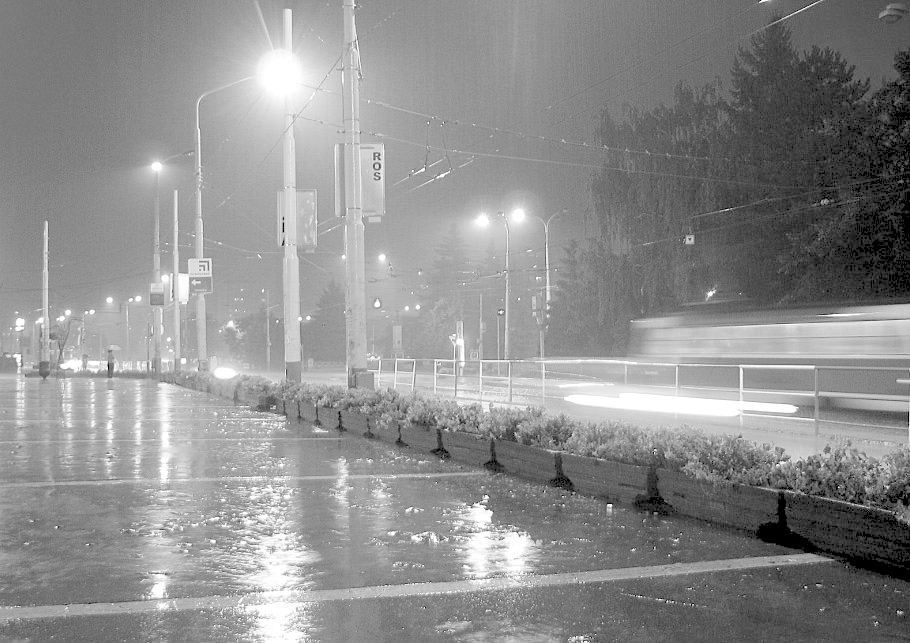
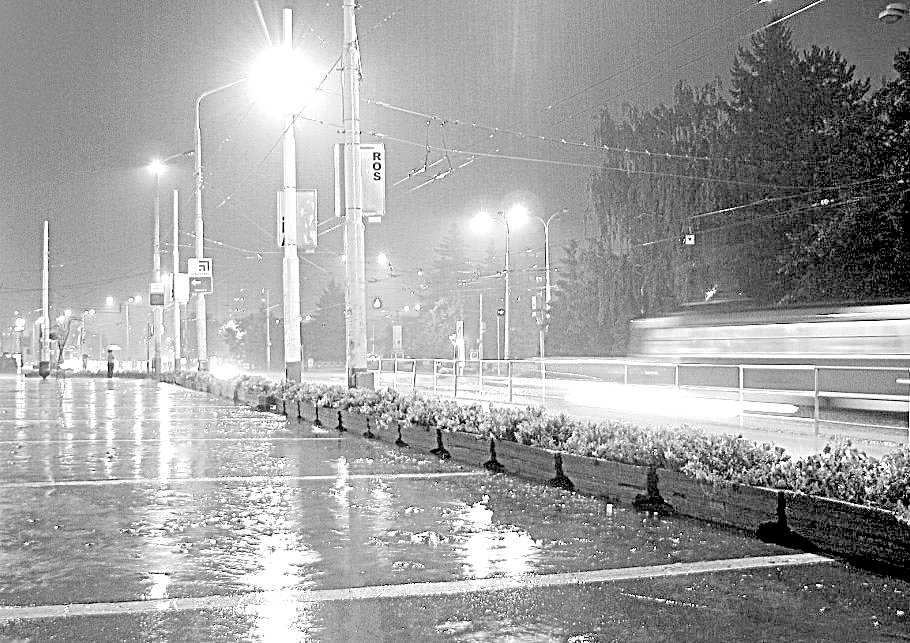
fix(site): planche Last train lisible, trame plus fine et photos plus claires
Horloge de gare à la place des toits, quai de nuit plus simple, portes qui se ferment à la place du wagon ; crédits à jour.

diff --git a/site/src/pages/last-train.ts b/site/src/pages/last-train.ts
@@ -12,14 +12,14 @@ export const LAST_TRAIN: PageData = {
   format: "pocket",
   tiers: [
     {
-      height: 1.15,
+      height: 1.5,
       panels: [
         {
           bleed: true,
-          label: "Rooftops and water tanks under a heavy sky",
-          art: { src: img("rooftops"), alt: "City rooftops with wooden water tanks under a cloudy sky", x: 50, y: 60, zoom: 1.1, toned: { pattern: "dots" } },
+          label: "The station clock: five past midnight",
+          art: { src: img("clock"), alt: "A station clock with Roman numerals hanging under a glass roof, showing five past twelve", x: 38, y: 48, toned: { pattern: "dots", density: 3.5 } },
           items: [
-            { type: "caption", x: 4, y: 6, anchor: "top-left", text: "Friday, 11:52 p.m." },
+            { type: "caption", x: 96, y: 6, anchor: "top-right", text: "Friday night, 12:05 a.m." },
             { type: "caption", x: 96, y: 92, anchor: "bottom-right", text: "Eight minutes to the last train." },
           ],
         },
@@ -32,13 +32,13 @@ export const LAST_TRAIN: PageData = {
           width: 0.8,
           slant: 5,
           label: "A utility pole hums",
-          art: { src: img("pole"), alt: "A wooden utility pole with a transformer and power lines", x: 45, y: 30, zoom: 1.4, toned: { pattern: "lines" } },
+          art: { src: img("pole"), alt: "A wooden utility pole with a transformer and power lines", x: 45, y: 30, zoom: 1.4, toned: { pattern: "dots", density: 3.5 } },
           items: [{ type: "sfx", x: 70, y: 70, text: "BZZZ", size: "md", rotate: -12, variant: "outline" }],
         },
         {
           width: 1.3,
           label: "An empty street in the rain",
-          art: { src: img("rain-street"), alt: "A wet street at night, lamps reflected on the pavement", x: 40, y: 55, toned: { pattern: "dots" } },
+          art: { src: img("rain-street"), alt: "A wet street at night, lamps reflected on the pavement", x: 40, y: 55, toned: { pattern: "dots", density: 3.5 } },
           items: [
             {
               type: "bubble",
@@ -47,7 +47,7 @@ export const LAST_TRAIN: PageData = {
               y: 8,
               anchor: "top",
               maxWidth: 62,
-              text: "Where are you? It leaves at midnight!",
+              text: "Where are you? It leaves at 12:13!",
               pointAt: { x: 96, y: 96 },
             },
             { type: "sfx", x: 22, y: 82, text: "ザー", size: "sm", rotate: 6 },
@@ -63,13 +63,13 @@ export const LAST_TRAIN: PageData = {
           width: 0.9,
           shape: "cloud",
           label: "Rain on the glass",
-          art: { src: img("raindrops"), alt: "Raindrops on a window pane", zoom: 1.6, x: 40, y: 40, toned: { pattern: "noise" } },
+          art: { src: img("raindrops"), alt: "Raindrops on a window pane", zoom: 1.6, x: 40, y: 40, toned: { pattern: "noise", density: 3 } },
           items: [{ type: "bubble", variant: "whisper", x: 50, y: 50, text: "Almost there…" }],
         },
         {
           width: 1.4,
           label: "The empty platform",
-          art: { src: img("platform"), alt: "An empty railway platform under an iron canopy", x: 55, y: 60, toned: { pattern: "dots" } },
+          art: { src: img("platform"), alt: "An empty station platform at night, its white edge line running to two street lamps", x: 62, y: 62, toned: { pattern: "dots", density: 3.5 } },
           items: [
             { type: "bubble", variant: "shout", x: 30, y: 6, anchor: "top", maxWidth: 52, text: "Wait!", pointAt: { x: 4, y: 96 } },
             { type: "sfx", x: 78, y: 86, text: "TA TA TA", size: "sm", rotate: -6 },
@@ -78,11 +78,11 @@ export const LAST_TRAIN: PageData = {
       ],
     },
     {
-      height: 1.25,
+      height: 1.6,
       panels: [
         {
-          label: "Inside the last train",
-          art: { src: img("train"), alt: "The inside of an empty train carriage, rows of seats", x: 50, y: 45, toned: { pattern: "lines" } },
+          label: "The doors slide shut",
+          art: { src: img("doors"), alt: "The doors of a subway car sliding shut, the tiled station wall beyond", x: 50, y: 50, toned: { pattern: "dots", density: 3.5 } },
           items: [
             { type: "bubble", variant: "electronic", x: 50, y: 6, anchor: "top", maxWidth: 46, text: "Doors closing.", pointAt: { x: 50, y: 32 } },
             { type: "bubble", variant: "thought", x: 22, y: 64, maxWidth: 34, text: "Made it." },

diff --git a/site/public/pages/photos/CREDITS.md b/site/public/pages/photos/CREDITS.md
@@ -1,12 +1,12 @@
 # Photo credits
 
-Photos used by the "Last train" example page (site/src/pages/last-train.ts). Each file is a resized, greyscale and lightened copy of the original
+Photos used by the "Last train" example page (site/src/pages/last-train.ts). Each file is a resized, greyscale copy, lightened and given more contrast, of the original
 from Wikimedia Commons; the page shows it as a screentone, drawn live in CSS (TonedImage). Adaptations of CC BY-SA photos
 are shared under the same license. No person can be recognised in any of them.
 
-- `rooftops.jpg`: [Rooftop water tanks and city towers, New York City.jpg](https://commons.wikimedia.org/wiki/File:Rooftop_water_tanks_and_city_towers,_New_York_City.jpg), by Z3lvs, CC0 (http://creativecommons.org/publicdomain/zero/1.0/deed.en)
+- `clock.jpg`: [2019 at Penrith station - platform clock.jpg](https://commons.wikimedia.org/wiki/File:2019_at_Penrith_station_-_platform_clock.jpg), by Geof Sheppard, CC BY-SA 4.0 (https://creativecommons.org/licenses/by-sa/4.0)
 - `pole.jpg`: [Utility pole with transformer and power lines.jpg](https://commons.wikimedia.org/wiki/File:Utility_pole_with_transformer_and_power_lines.jpg), by Candeadly, CC BY 4.0 (https://creativecommons.org/licenses/by/4.0)
 - `rain-street.jpg`: [Empty rainy street.jpg](https://commons.wikimedia.org/wiki/File:Empty_rainy_street.jpg), by Pilar, CC BY-SA 2.0 (https://creativecommons.org/licenses/by-sa/2.0)
 - `raindrops.jpg`: [Raindrops on the glass.jpg](https://commons.wikimedia.org/wiki/File:Raindrops_on_the_glass.jpg), by BogTar201213, CC BY-SA 4.0 (https://creativecommons.org/licenses/by-sa/4.0)
-- `platform.jpg`: [Empty platform at Toowoomba railway station (3803767326).jpg](https://commons.wikimedia.org/wiki/File:Empty_platform_at_Toowoomba_railway_station_(3803767326).jpg), by Andrew Napier, CC BY 2.0 (https://creativecommons.org/licenses/by/2.0)
-- `train.jpg`: [Tren S-Bahn vacío debido a la pandemia de Coronavirus Pirna (49684157633).jpg](https://commons.wikimedia.org/wiki/File:Tren_S-Bahn_vac%C3%ADo_debido_a_la_pandemia_de_Coronavirus_Pirna_(49684157633).jpg), by Bambizoe from Dresden, Germany, CC0 (http://creativecommons.org/publicdomain/zero/1.0/deed.en)
+- `platform.jpg`: [Avignonet-Lauragais - Gare d'Avignonet - 20150110 (1).jpg](https://commons.wikimedia.org/wiki/File:Avignonet-Lauragais_-_Gare_d%27Avignonet_-_20150110_(1).jpg), by Olybrius, CC BY-SA 4.0 (https://creativecommons.org/licenses/by-sa/4.0)
+- `doors.jpg`: [Lansdowne TTC closing doors.JPG](https://commons.wikimedia.org/wiki/File:Lansdowne_TTC_closing_doors.JPG), by Secondarywaltz, CC BY-SA 3.0 (https://creativecommons.org/licenses/by-sa/3.0)
